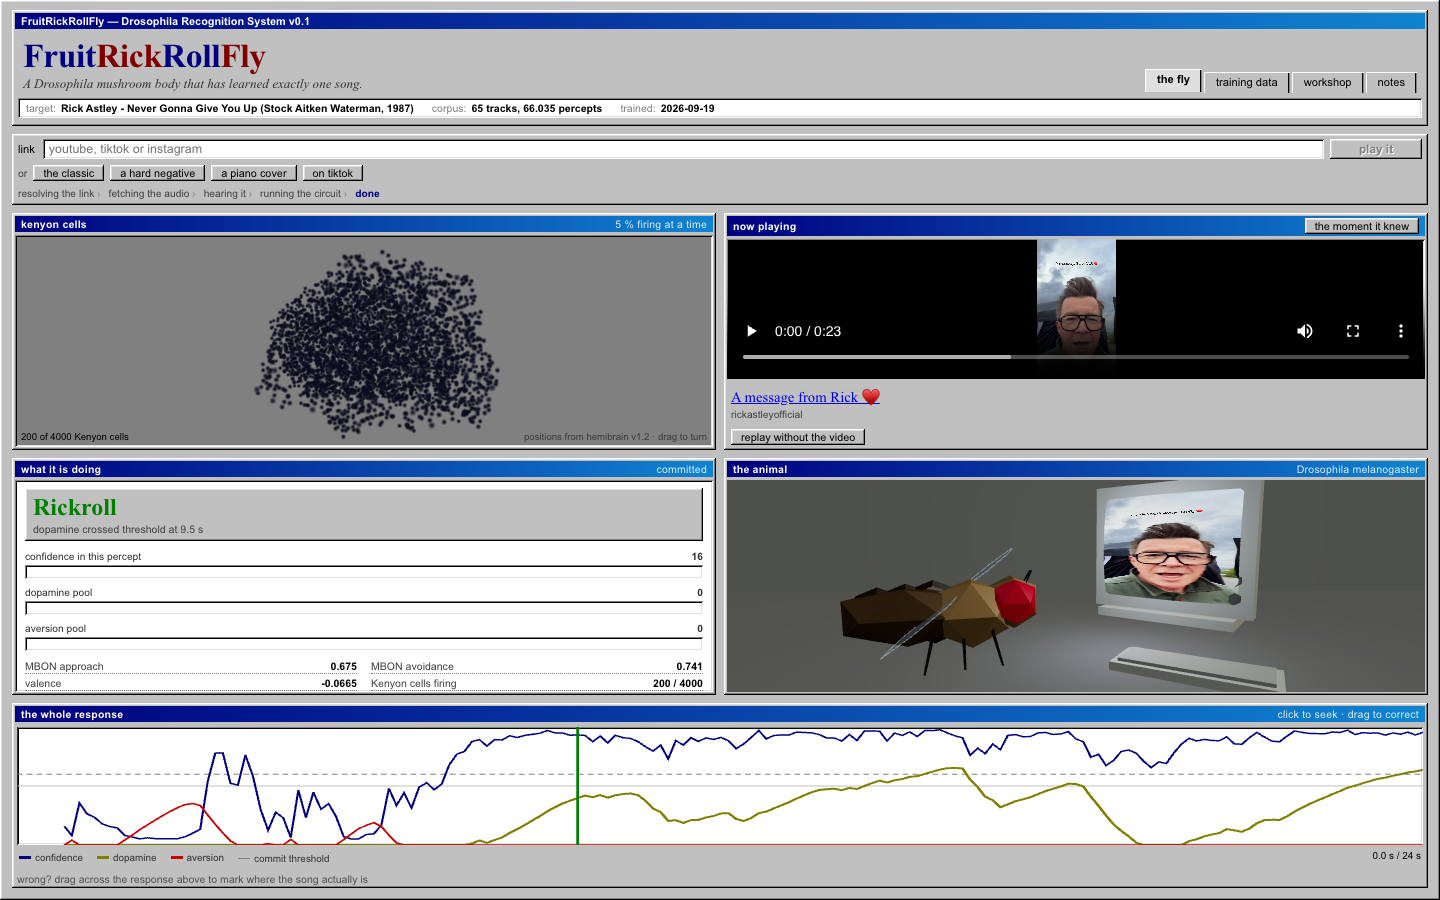
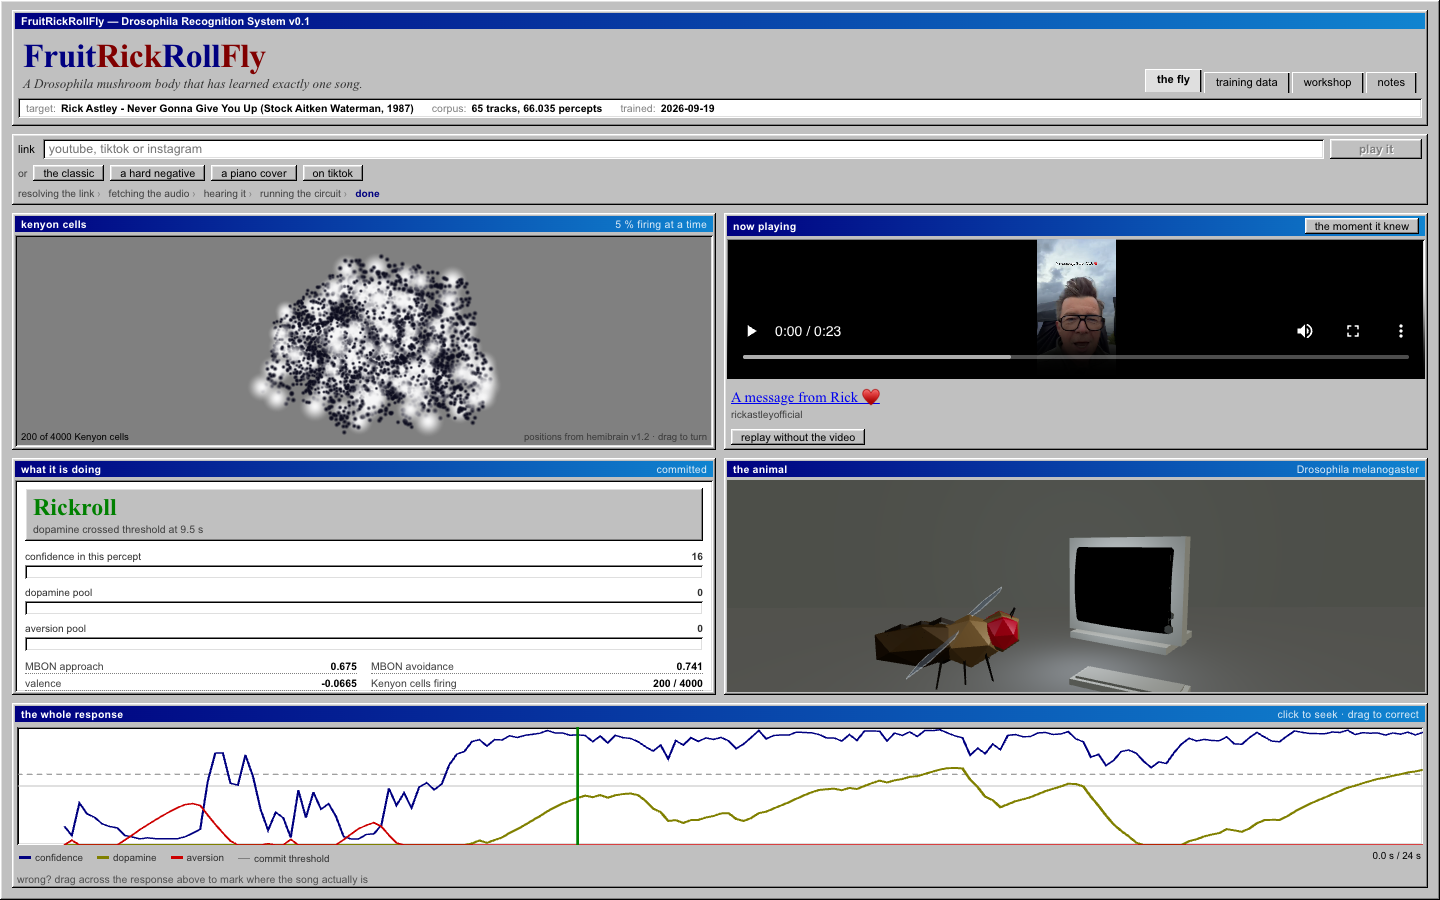
Beide Kameras rahmen jetzt das, was im Bild steht
Die Fliege war unten abgeschnitten und die Zellwolke schwamm als kleiner
Fleck in einem grossen leeren Feld. Beide Ursachen waren dieselbe: die
Kameras standen auf fest verdrahteten Zahlen, die bei genau einer
Panelform stimmen.

FlyView korrigierte nur camera.aspect, ohne Ausgleich. Eine perspektivische
Kamera hat ein festes vertikales Sichtfeld, also beschneidet ein flaches
Panel alles, was nicht hineinpasst, und das sind die Beine des Tieres und
der Fuss des Monitors. Jetzt wird gegen die gemeinsame Bounding-Box von
Fliege und Monitor gerahmt, mit der Blickrichtung wie sie war, also bleibt
die Komposition und nur der Abstand rechnet mit.

BrainView stand bei 2,1 Radien, was die Wolke bei einem schmalen Panel
richtig zeigt und sonst klein in der Mitte. Jetzt aus dem engeren der
beiden Sichtfelder gerechnet, bei jedem Resize neu, und nur der Abstand
zum Orbit-Ziel bewegt sich, damit Drehung und Autorotation unberuehrt
bleiben. Gerahmt wird auf 0,78 des Huellradius statt auf den ganzen: die
Kugel umschliesst die Ausreisser, und eine Punktwolke ist da draussen
duenn.

Bei 1280x800, 1512x982 und 1920x1080 nachgesehen.

Changed region(s): [[0.5625, 0.5289, 0.9062, 0.7778], [0.1562, 0.28, 0.3438, 0.4978]]

diff --git a/web/src/components/BrainView.tsx b/web/src/components/BrainView.tsx
@@ -100,6 +100,12 @@ export default function BrainView({ circuit, frame, live }: Props) {
     const world = new THREE.Group()
     scene.add(world)
 
+    /* Set once the cell positions have landed, and called again on every
+       resize. The camera used to sit at a hard-coded 2.1 times the cloud's
+       radius, which frames it correctly at exactly one panel shape and leaves
+       it as a small blob floating in a large empty box at every other. */
+    let frame: (() => void) | null = null
+
     fetch('kenyon-cells.bin')
       .then(async (response) => {
         if (!response.ok) throw new Error(`kenyon-cells.bin: ${response.status}`)
@@ -176,10 +182,28 @@ export default function BrainView({ circuit, frame, live }: Props) {
         const sphere = geometry.boundingSphere
         const reach = sphere ? sphere.radius : 3
         if (sphere) world.position.sub(sphere.center)
-        camera.position.set(reach * 0.8, reach * 0.5, reach * 2.1)
         controls.target.set(0, 0, 0)
-        controls.minDistance = reach * 0.8
-        controls.maxDistance = reach * 6
+        camera.position.set(reach * 0.8, reach * 0.5, reach * 2.1)
+
+        /* How far back the cloud has to sit to fill the panel: far enough that
+           its radius fits inside whichever of the two fields of view is the
+           tighter one. The orbit direction is whatever the viewer (or the
+           auto-rotation) has left it at, so only the distance moves. */
+        frame = () => {
+          const vFov = (camera.fov * Math.PI) / 180
+          const hFov = 2 * Math.atan(Math.tan(vFov / 2) * camera.aspect)
+          /* Eight tenths of the bounding radius, not all of it. The sphere
+             encloses the outliers, and a cloud is thin out there: fitting it
+             whole leaves the dense middle, which is the part worth seeing, as
+             a small blob with a wide empty margin around it. */
+          const distance = (reach * 0.78) / Math.sin(Math.min(vFov, hFov) / 2)
+          const direction = camera.position.clone().sub(controls.target)
+          if (direction.lengthSq() === 0) direction.set(0.8, 0.5, 2.1)
+          camera.position.copy(controls.target).addScaledVector(direction.normalize(), distance)
+          controls.minDistance = distance * 0.35
+          controls.maxDistance = distance * 3
+        }
+        frame()
 
         rig.current = {
           colors: colorAttr,
@@ -215,6 +239,7 @@ export default function BrainView({ circuit, frame, live }: Props) {
                 Math.PI,
             )
       camera.updateProjectionMatrix()
+      frame?.()
     }
     const observer = new ResizeObserver(resize)
     observer.observe(element)

diff --git a/web/src/components/FlyView.tsx b/web/src/components/FlyView.tsx
@@ -339,12 +339,42 @@ export default function FlyView({ video, dopamine, committed, playing }: Props) 
     }
     rig.current = state
 
+    /* The animal and the thing it is watching, as one box. The camera used to
+       sit at a fixed point and only have its aspect corrected, which crops
+       whatever does not fit: on a short wide panel that is the fly's legs and
+       the monitor's foot. Framing against the box means the pair stays whole
+       at any panel shape, and the composition (fly left, screen right, both
+       readable) is the direction from the box's centre, kept as it was. */
+    scene.updateMatrixWorld(true)
+    const subject = new THREE.Box3().setFromObject(fly).union(
+      new THREE.Box3().setFromObject(monitor),
+    )
+    const centre = subject.getCenter(new THREE.Vector3())
+    const extent = subject.getSize(new THREE.Vector3())
+    const direction = camera.position.clone().sub(new THREE.Vector3(0.15, 0.1, 0)).normalize()
+
     const resize = () => {
       const { clientWidth: w, clientHeight: h } = element
       if (w === 0 || h === 0) return
       renderer.setSize(w, h, false)
       camera.aspect = w / h
       camera.updateProjectionMatrix()
+
+      const vFov = (camera.fov * Math.PI) / 180
+      const hFov = 2 * Math.atan(Math.tan(vFov / 2) * camera.aspect)
+      // A tenth of headroom, which is also what the fly leans into when the
+      // dopamine rises without being allowed to leave the frame.
+      const distance =
+        Math.max(
+          ((extent.y / 2) * 1.02) / Math.tan(vFov / 2),
+          ((extent.x / 2) * 1.02) / Math.tan(hFov / 2),
+        ) +
+        // A quarter of the depth, not half: the monitor's tube runs a long way
+        // back and is mostly behind the screen, so charging the full half
+        // pushes the camera out until the pair is a pair of dots.
+        extent.z * 0.25
+      camera.position.copy(centre).addScaledVector(direction, distance)
+      camera.lookAt(centre)
     }
     const observer = new ResizeObserver(resize)
     observer.observe(element)
